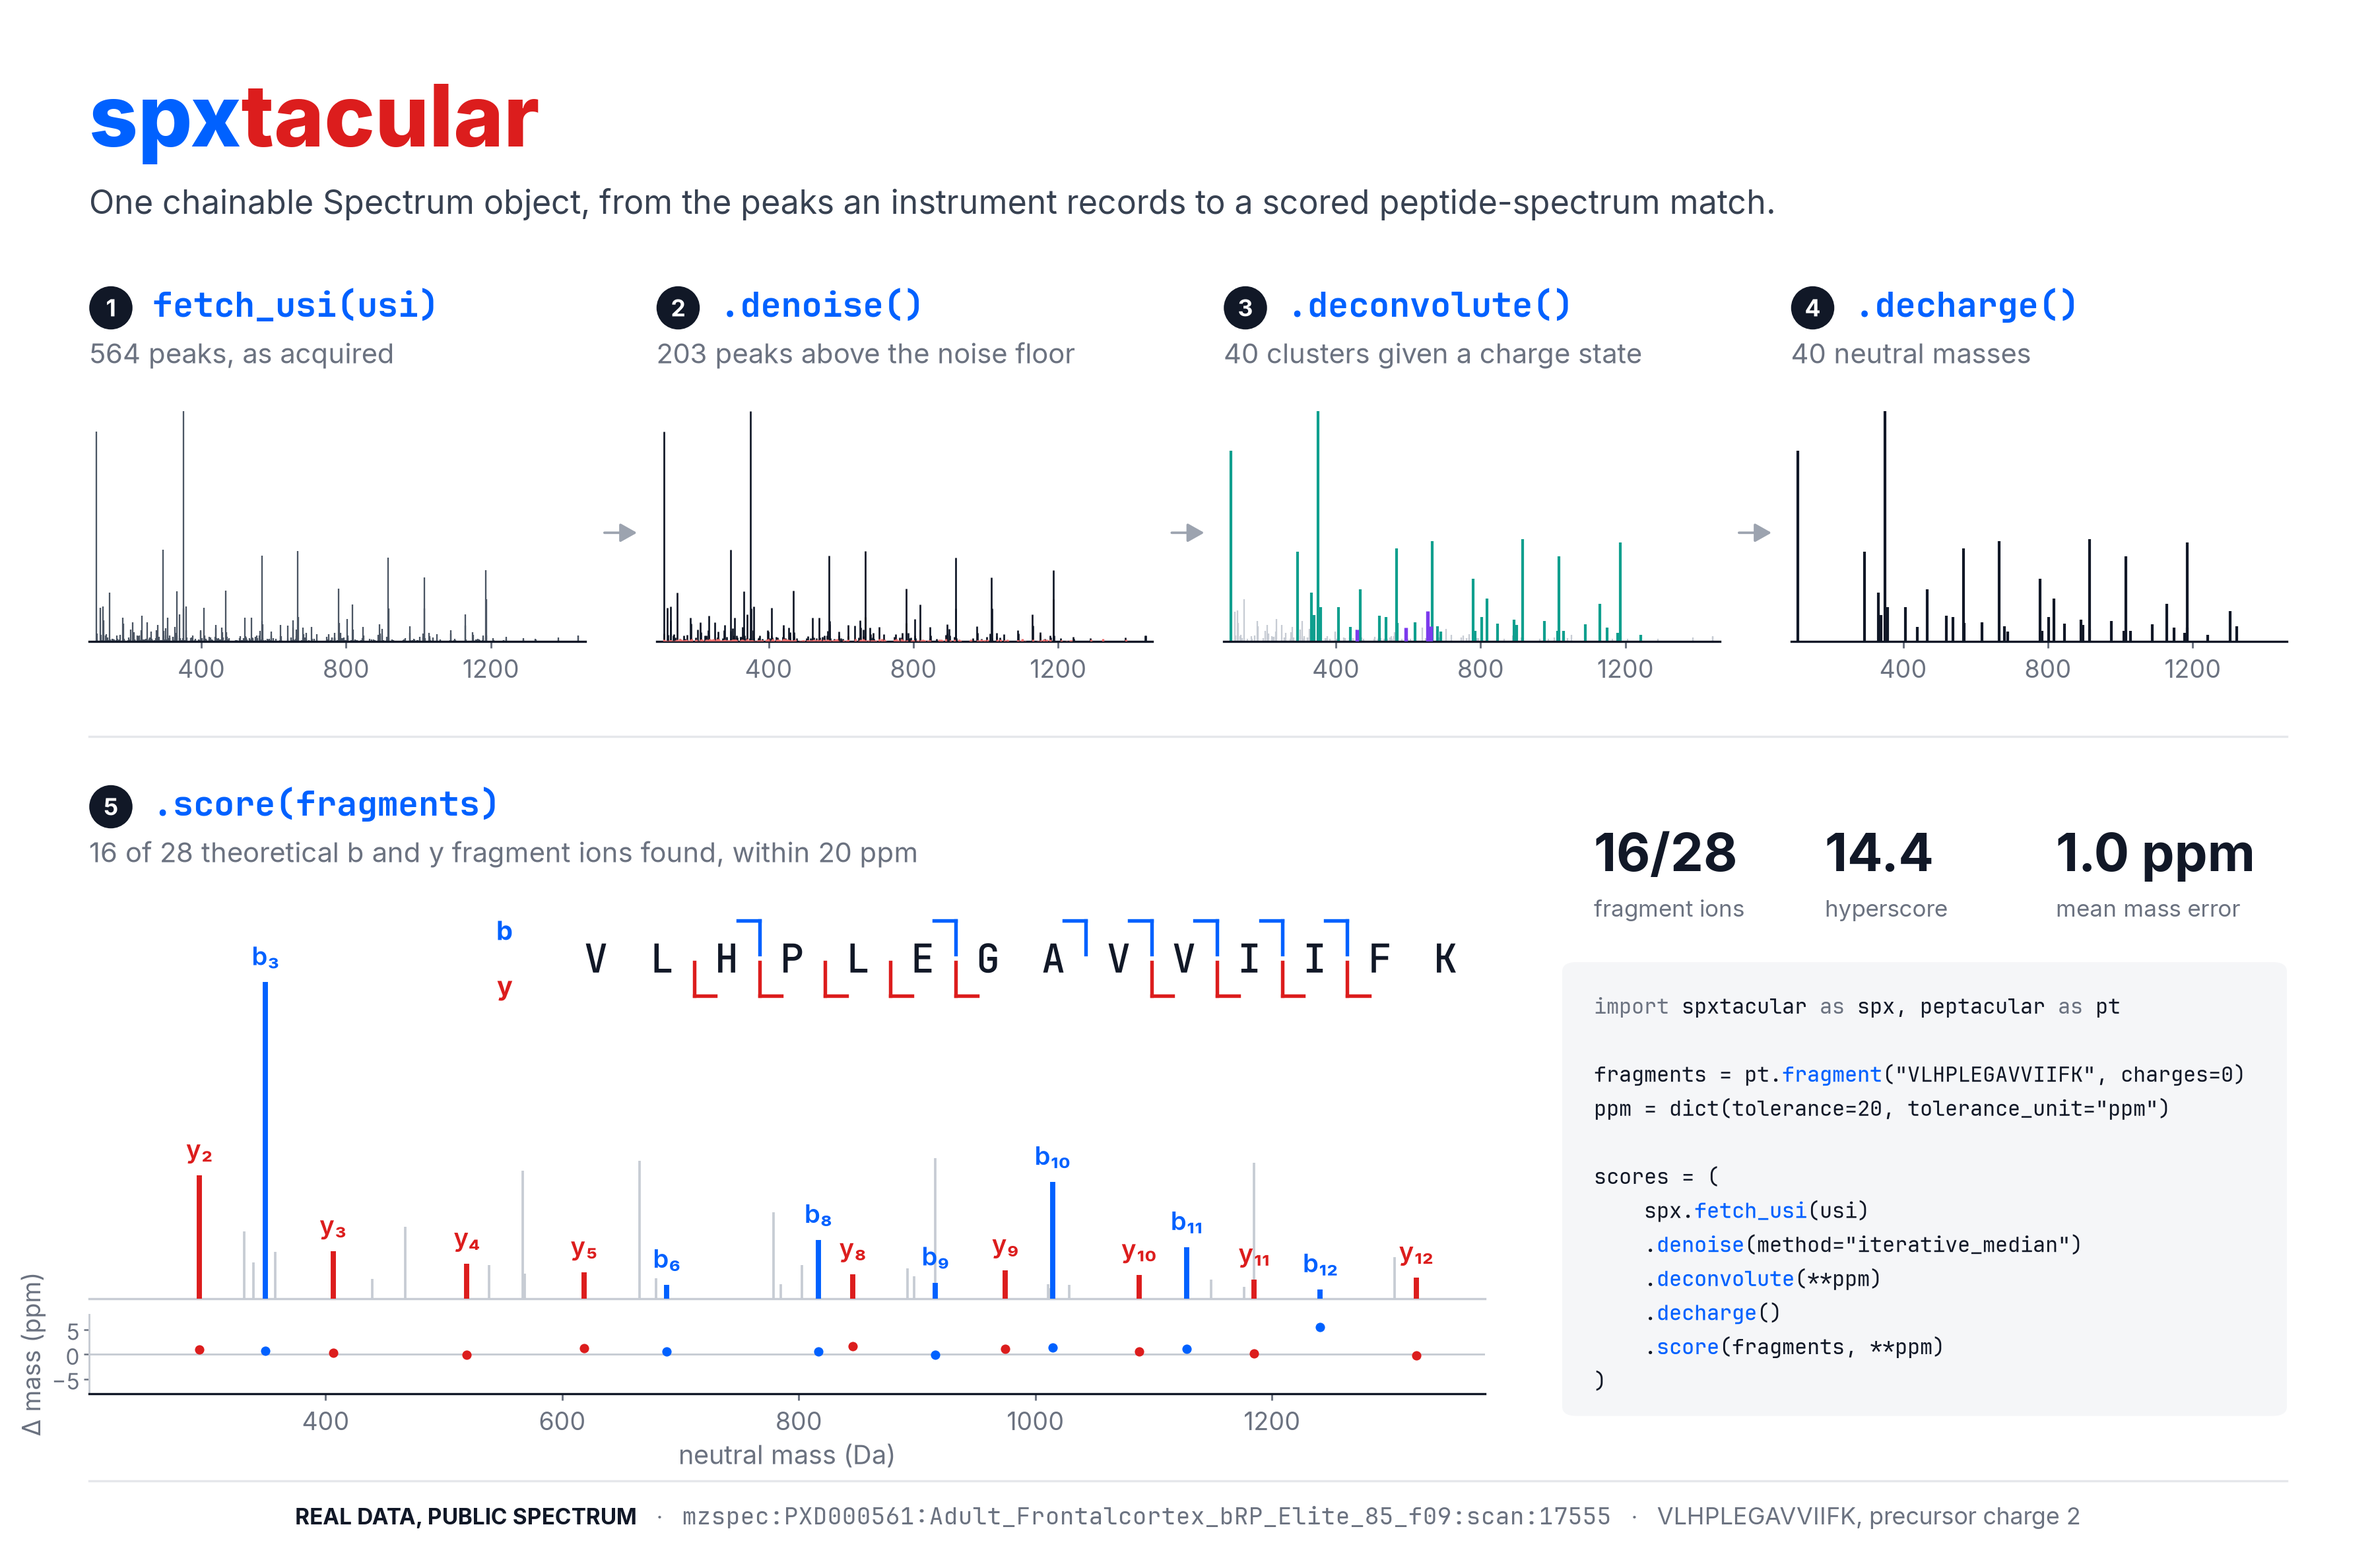
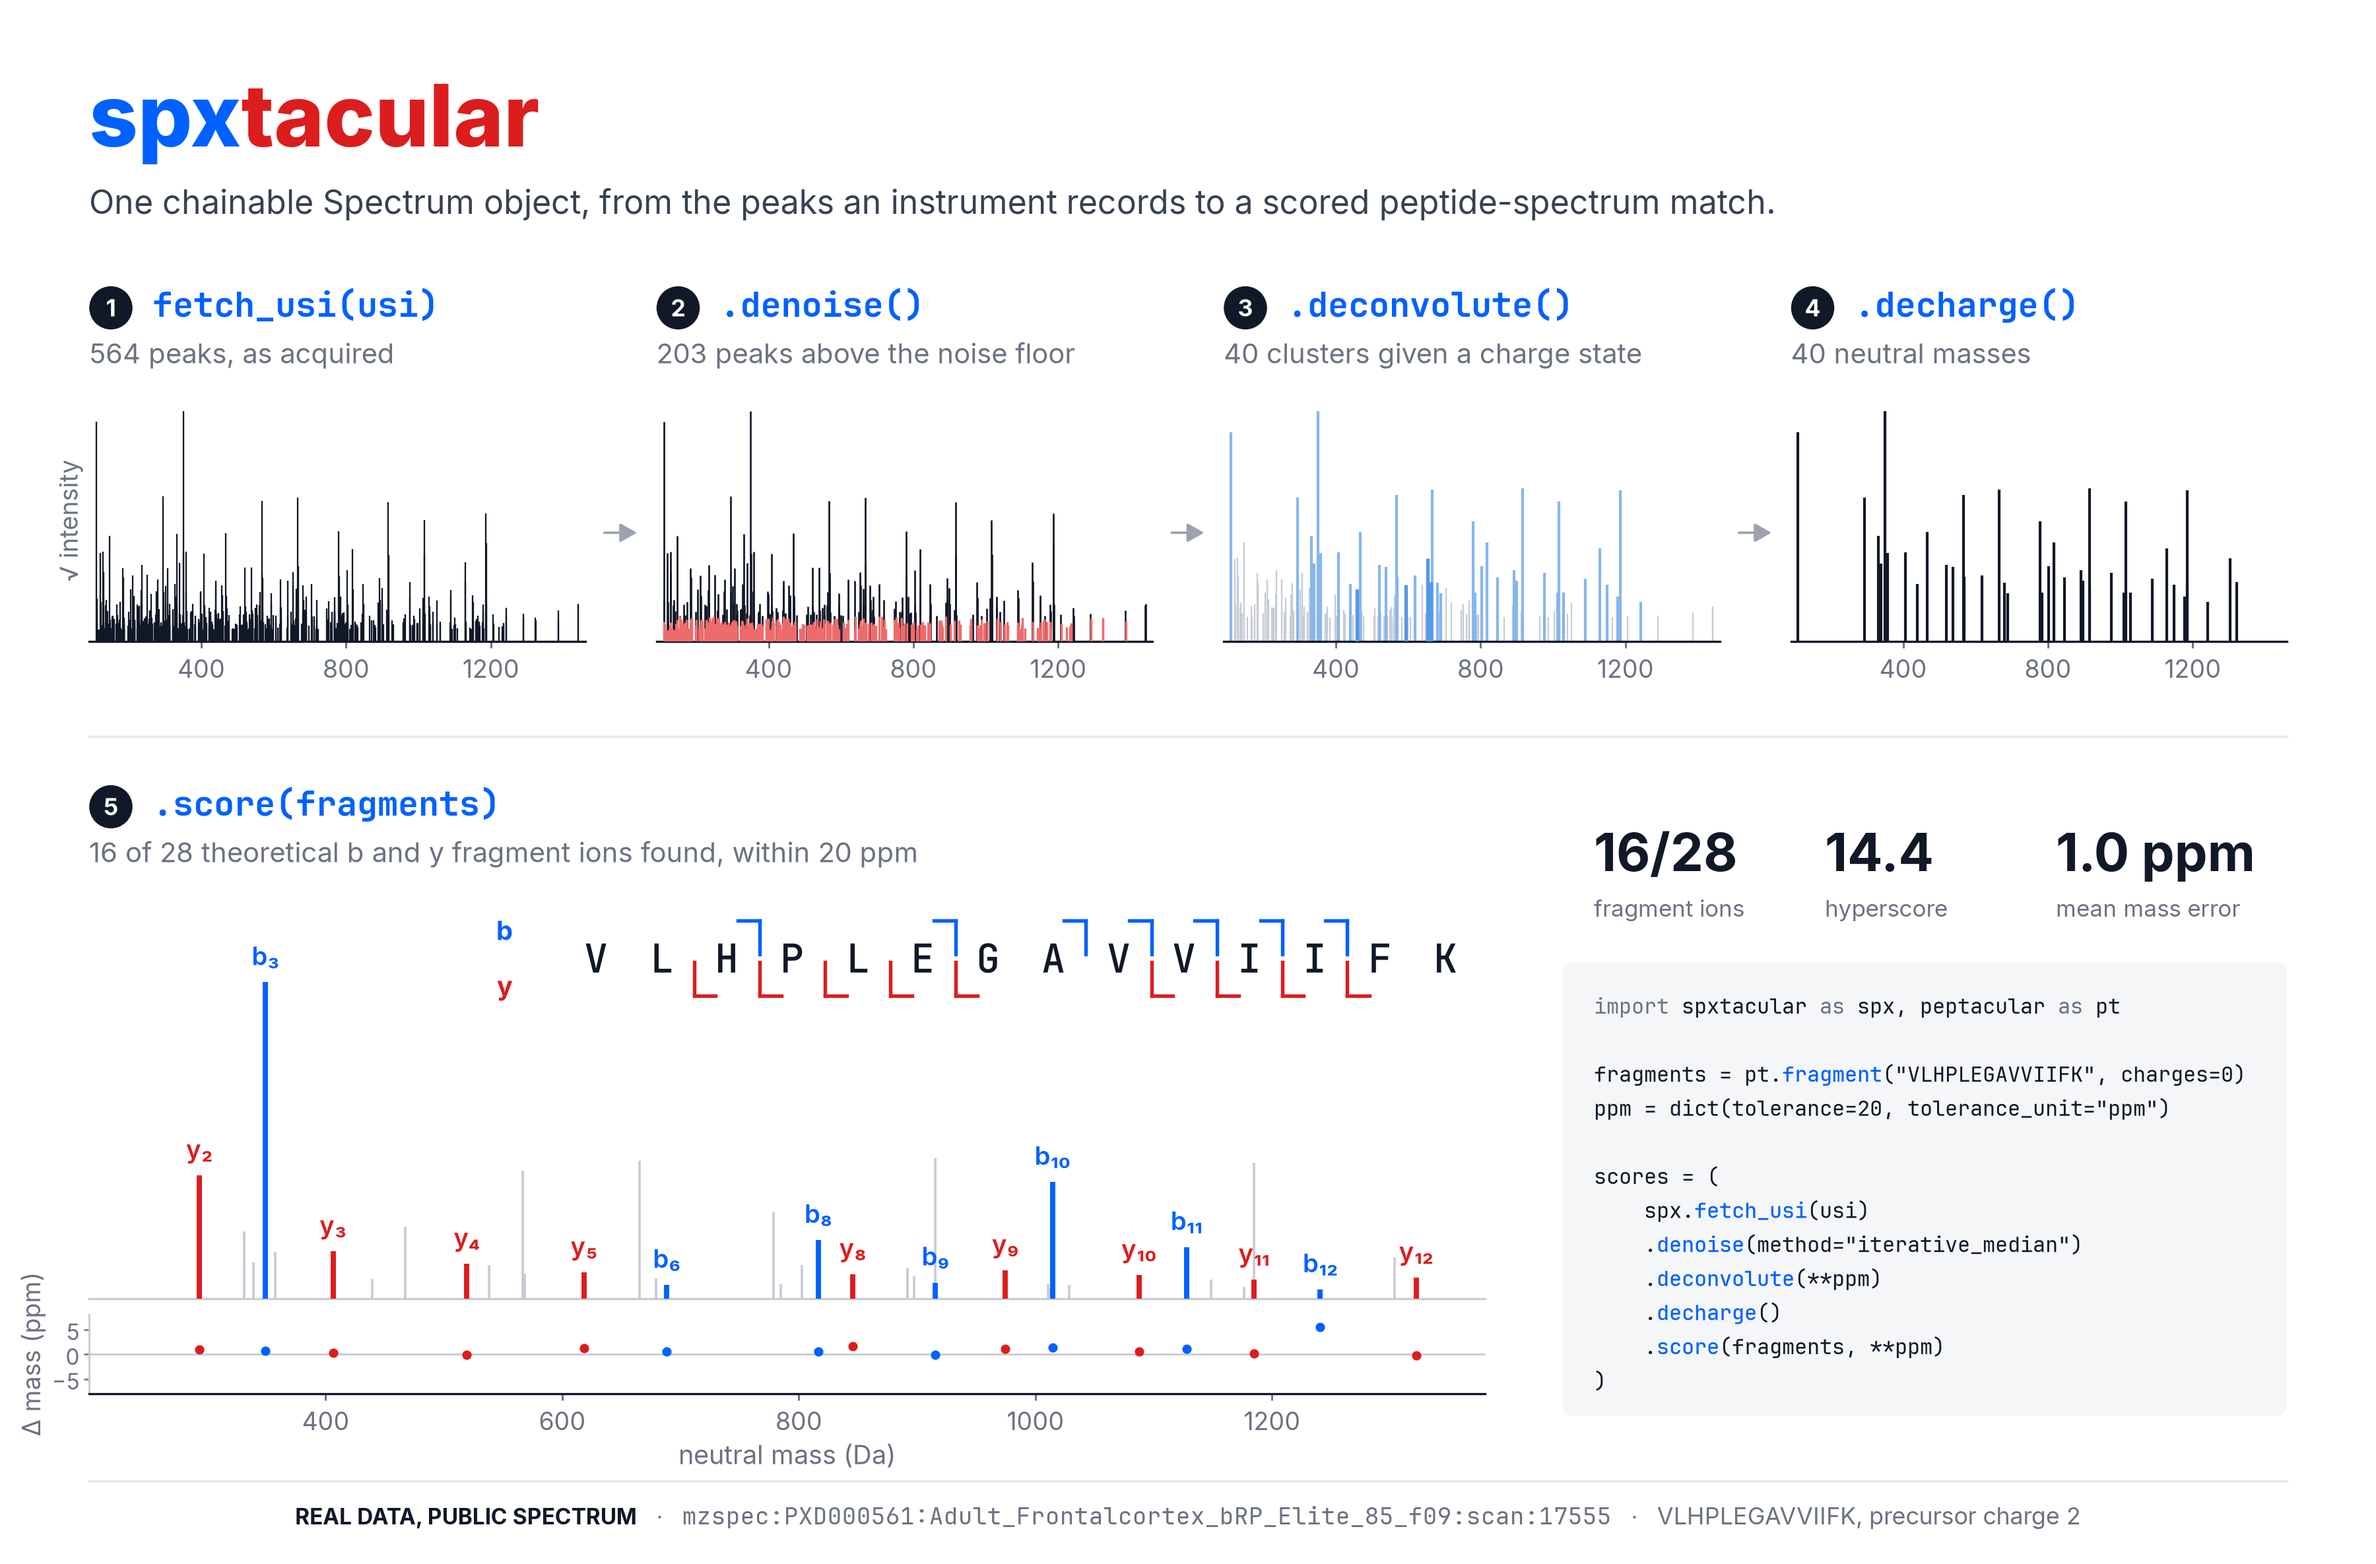
paper: square-root intensity in band A, and the library's own charge colours
Three things a reader noticed, all of them real.

Panel 1 was drawn in grey and panel 2 in ink, so the same spectrum changed
darkness between the first two steps for no reason. Both are ink now.

The peaks denoise() removes are the small ones, 2.2e-3 to 1.2e-2 of the base
peak against 1.2e-2 to 1 for the peaks it keeps, so on a linear axis the red
removed peaks were invisible and panel 2 looked like panel 1. Band A is now
drawn on a square-root scale, the usual one for spectral display and the
transform cosine() itself applies, labelled once down the left of panel 1.
A log scale was tried first and rejected: it makes the removed peaks obvious
but lifts every small peak to a similar height, and the panels stop looking
like spectra.

The charge colours were a teal and a purple invented for this figure, which
is the scheme theme.py argues against: charge is ordinal, so the package
encodes it as one hue's lightness. draw.py now imports charge_color from
spxtacular.theme, so the abstract cannot drift from the library it is for.

diff --git a/paper/abstract/draw.py b/paper/abstract/draw.py
@@ -35,8 +35,23 @@ plt.rcParams.update({"font.family": SANS, "svg.fonttype": "none", "pdf.fonttype"
 D = json.load(open(HERE / "data/stages.json"))
 INK, SUB, FAINT, HAIR = "#111827", "#6B7280", "#C7CCD4", "#E5E7EB"
 BLUE, RED = "#0061FF", "#DC1D1D"
-Z1, Z2 = "#0E9F8E", "#7C3AED"
+# Charge is ordinal, so spxtacular's own palette encodes it as one hue's lightness rather
+# than as separate colours (theme.py, charge_color). Taking it from the library keeps the
+# abstract from inventing a scheme the package does not use.
+from spxtacular.theme import charge_color  # noqa: E402
+Z1, Z2 = charge_color(1), charge_color(2)
 PROTON = 1.007276
+
+# Band A is drawn on a square-root intensity scale, the usual one for spectral display and
+# the transform cosine() itself applies. The peaks denoise() removes are the small ones,
+# 2.2e-3 to 1.2e-2 of the base peak against 1.2e-2 to 1 for the peaks it keeps, so on a
+# linear axis the removal is invisible and panel 2 looks like panel 1. A log scale makes
+# them visible but lifts every small peak to a similar height, which stops the panels
+# looking like spectra at all.
+
+def logh(rel):
+    """Stick height for a relative intensity, on a square-root scale."""
+    return np.sqrt(np.clip(np.asarray(rel, dtype=np.float64), 0, 1))
 
 W, H = 12.0, 7.9
 fig = plt.figure(figsize=(W, H), dpi=300)
@@ -104,27 +119,28 @@ YH, Y0, HP = 6.30, 4.66, 1.22
 XL = (90, 1460)
 
 header(x1, YH, 1, "fetch_usi(usi)", f"{len(rmz)} peaks, as acquired", wS)
-ax = AX(x1, Y0, wS, HP); sticks(ax, rmz, rin / rin.max(), "#4B5563", 0.55)
+ax = AX(x1, Y0, wS, HP); sticks(ax, rmz, logh(rin / rin.max()), INK, 0.55)
+ax.set_ylabel("\u221a intensity", fontsize=9.0, color=SUB, labelpad=2)
 ax.set_xlim(*XL); ax.set_ylim(0, 1.05); ax.set_xticks([400, 800, 1200])
 
 header(x2, YH, 2, ".denoise()", f"{len(dmz)} peaks above the noise floor", wS)
 ax = AX(x2, Y0, wS, HP)
-sticks(ax, dmz, din / rin.max(), INK, 0.65, 2)
-sticks(ax, rmz[~kept], rin[~kept] / rin.max(), "#EF6B6B", 0.8, 3)
+sticks(ax, dmz, logh(din / rin.max()), INK, 0.65, 2)
+sticks(ax, rmz[~kept], logh(rin[~kept] / rin.max()), "#EF6B6B", 0.8, 3)
 ax.set_xlim(*XL); ax.set_ylim(0, 1.05); ax.set_xticks([400, 800, 1200])
 
 header(x3, YH, 3, ".deconvolute()", f"{n_charged} clusters given a charge state", w3)
 ax = AX(x3, Y0, w3, HP)
 u = cz < 0
-sticks(ax, cmz[u], cin[u] / cin.max(), FAINT, 0.55, 1)
-sticks(ax, cmz[cz == 1], cin[cz == 1] / cin.max(), Z1, 1.0, 2)
-sticks(ax, cmz[cz == 2], cin[cz == 2] / cin.max(), Z2, 1.3, 3)
+sticks(ax, cmz[u], logh(cin[u] / cin.max()), FAINT, 0.55, 1)
+sticks(ax, cmz[cz == 1], logh(cin[cz == 1] / cin.max()), Z1, 1.0, 2)
+sticks(ax, cmz[cz == 2], logh(cin[cz == 2] / cin.max()), Z2, 1.3, 3)
 ax.set_xlim(*XL); ax.set_ylim(0, 1.05); ax.set_xticks([400, 800, 1200])
 
 header(x4, YH, 4, ".decharge()", f"{len(neu['mass'])} neutral masses", wS)
 ax = AX(x4, Y0, wS, HP)
 k = cz > 0
-sticks(ax, (cmz[k] - PROTON) * cz[k], cin[k] / cin[k].max(), INK, 1.0)
+sticks(ax, (cmz[k] - PROTON) * cz[k], logh(cin[k] / cin[k].max()), INK, 1.0)
 ax.set_xlim(90, 1460); ax.set_ylim(0, 1.05); ax.set_xticks([400, 800, 1200])
 
 ya = Y0 + HP * 0.45
